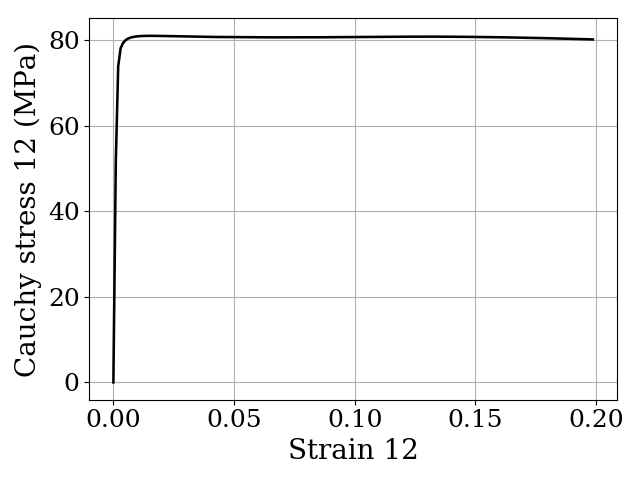
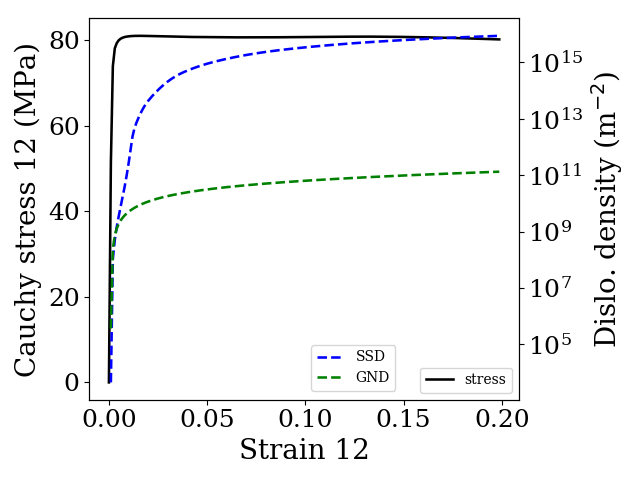
track files to plot 64-grid results

diff --git a/rho_from_power_law/mycode/input_fromLi/change_al_property_run/plot_ss_rhoEvo.py b/rho_from_power_law/mycode/input_fromLi/change_al_property_run/plot_ss_rhoEvo.py
@@ -1,0 +1,65 @@
+from nice_plot import *
+import os
+
+def read_column(txt, label):
+        """Return a column with label from the damask output txt file."""
+        with open(txt, 'r') as f:
+            for i, line in enumerate(f):
+                split_line = line.split()
+                if split_line[0] == "inc":  # the label line
+                    label_line = i
+                    # the label row
+                    for j in range(len(split_line)):
+                        if split_line[j] == label:
+                            colID = j
+                            break
+                    break
+        data = np.loadtxt(txt, skiprows = label_line + 1, usecols = colID)
+        return data
+    
+dirs = ["30grain128grid_shearXY_fdot100_p20_power_law", "30grain128grid_shearXY_fdot10000_p20_power_law"]
+
+markers = ['b-', 'g-', 'r-', 'y-', 'm-', 'c-', 'k-']
+
+# store strains for dislocation density plot
+strains = []
+# ss curves for different strain rates
+plt.figure()
+for i in range(len(fdot)):
+    idir = '30grain128grid_shearXY_fdot%s_p20_power_law/postProc' % strain_label[i]
+    txt = idir + "/" + os.listdir(idir)[0]
+    strain = read_column(txt, "Mises(ln(V))")[1 : 101]
+    strains.append(strain)
+    stress = read_column(txt, "Mises(Cauchy)")[1 : 101]
+    if i == 0:
+        print("length of strain is %i" % len(strain))
+    plt.plot(strain, stress * 1e-6, markers[i], label = fdot_legend[i])
+plt.legend(loc = 0, ncol = 3)
+plt.xlabel('Strain')
+plt.ylabel('Stress (MPa)')
+plt.text(0.1, 220, r'strain rate (s$^{-1}$)')
+plt.ylim(ymax = 240)
+plt.grid()
+plt.savefig('ss_p20v2.png')
+
+
+# dislocation density vs strain
+plt.figure()
+for i in range(len(fdot)):
+    # we only have dislocation density of fdot = 100 and 10000
+    if strain_label[i] in ["100", "10000"]:
+        strain = strains[i]
+        idir = '30grain128grid_shearXY_fdot%s_p20_power_law/postProc_rho' % strain_label[i]
+        # stored in the txts are the sum of dislocation densities in the 128**3 grids, calculate its average over the entire volume
+        ssd = np.loadtxt(idir + "/ssd_sum.txt") / 128 ** 3
+        gnd = np.loadtxt(idir + "/gnd_sum.txt") / 128 ** 3
+        plt.plot(strain, ssd, markers[i][0] + "-", label = "SSD %s" % fdot_legend[i])
+        plt.plot(strain, gnd, markers[i][0] + ":", label = "GND %s" % fdot_legend[i])
+plt.xlabel('Strain')
+plt.ylabel("Dislo. density (m$^{-2}$)")
+plt.grid()
+plt.legend(loc = 0)
+plt.yscale("log")
+plt.savefig("dislo_vs_strain.png")
+        
+        

diff --git a/rho_from_power_law/mycode/input_fromLi/change_al_property_run/curve_plot.py b/rho_from_power_law/mycode/input_fromLi/change_al_property_run/curve_plot.py
@@ -19,25 +19,51 @@ def read_column(afile, label):
 
 markers = ['b-', 'g--', 'r-.*', 'y:', 'm-', 'c--', 'k-.']
 
-laws = ['isotropic', 'power', 'nonlocal']
 prefile = "pressure_shear/postProc/input_power.txt"
 tfile = "uniaxial_tensile2/postProc/input_power.txt"
 
+# fdot * 1e-3 0   1e-3 0 0   0 0 0   stress -2e7 * *   * * *   * * *   time 200  incs 200 freq 1
 pstrain = read_column(prefile, "2_ln(V)")
 pstress = read_column(prefile, "2_Cauchy")
+
+# print final strain
+print("Pressure load, final strain 12 = %.2f" % pstrain[-1])
+
+# stored in txts are the sum of dislocation densities in 64^3 grids
+# divided by 64**3 to compute averaged rho
+ssd = np.loadtxt("pressure_shear/postProc_rho/ssd_sum.txt") / 64 ** 3
+gnd = np.loadtxt("pressure_shear/postProc_rho/gnd_sum.txt") / 64 ** 3
 plt.figure()
-plt.plot(pstrain, pstress * 1e-6, "k-")
+plt.plot(pstrain, pstress * 1e-6, "k-", label = "stress")
 plt.xlabel("Strain 12")
 plt.ylabel("Cauchy stress 12 (MPa)")
-plt.grid(1)
+plt.legend(loc = 0)
+plt.twinx()
+plt.plot(pstrain[1 : ], ssd, "b--", label = "SSD")
+plt.plot(pstrain[1 : ], gnd, "g--", label = "GND")
+plt.ylabel("Dislo. density (m$^{-2}$)")
+plt.yscale("log")
+plt.legend(loc = "lower left", bbox_to_anchor = (0.5, .005))
 plt.savefig("ss_shear.png")
 
 # fdot 1e-3 0 0  * * 0  * * *   stress * * *   0 0 *   0 0 0   time 200  incs 200 freq 1
 pstrain = read_column(tfile, "1_ln(V)")
 pstress = read_column(tfile, "1_Cauchy")
+ssd = np.loadtxt("uniaxial_tensile2/postProc_rho/ssd_sum.txt") / 64 ** 3
+gnd = np.loadtxt("uniaxial_tensile2/postProc_rho/gnd_sum.txt") / 64 ** 3
+
+# print final strain
+print("Tensile load, final strain 11 = %.2f" % pstrain[-1])
+
 plt.figure()
-plt.plot(pstrain, pstress * 1e-6, "k-")
+plt.plot(pstrain, pstress * 1e-6, "k-", label = "stress")
 plt.xlabel("Strain 11")
 plt.ylabel("Cauchy stress 11 (MPa)")
-plt.grid(1)
+plt.legend(loc = 0)
+plt.twinx()
+plt.plot(pstrain[1 : ], ssd, "b--", label = "SSD")
+plt.plot(pstrain[1 : ], gnd, "g--", label = "GND")
+plt.ylabel("Dislo. density (m$^{-2}$)")
+plt.yscale("log")
+plt.legend(loc = "lower left", bbox_to_anchor = (0.5, .005))
 plt.savefig("ss_tensile.png")
